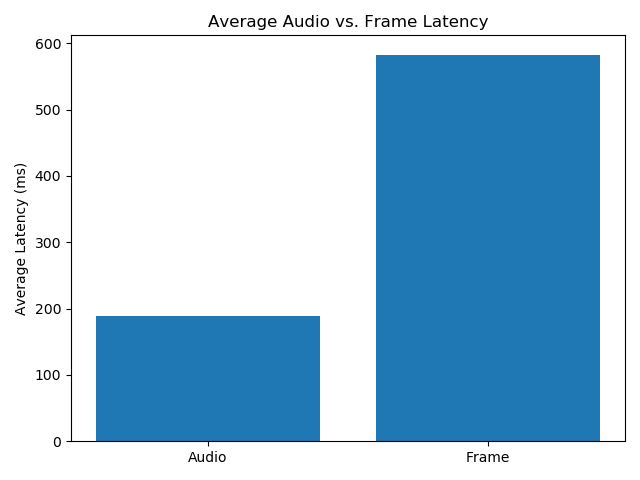
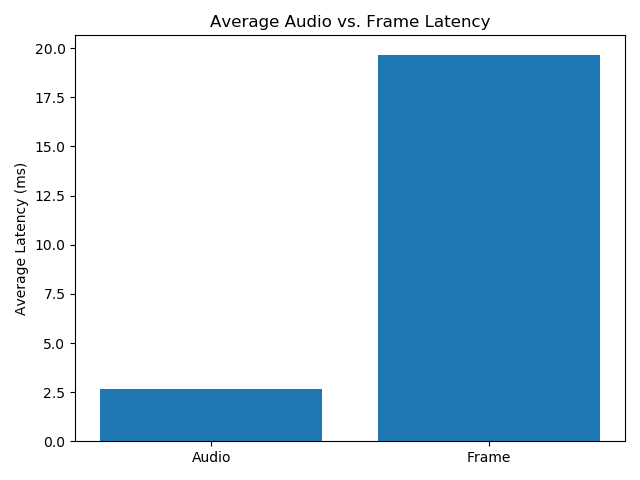
Add files via upload
modified the script to map the input to nearest auido and frame data

diff --git a/data/client/client-latency.py b/data/client/client-latency.py
@@ -4,10 +4,8 @@ import bisect
 import os
 import matplotlib.pyplot as plt
 
-# 1. Path to your CSV
+# 1. Load CSV
 csv_path = os.path.expanduser('~/data/client/latency_data.csv')
-
-# 2. Read and split timestamps
 input_times = []
 audio_times = []
 frame_times = []
@@ -24,35 +22,52 @@ with open(csv_path, newline='') as f:
         elif tp == 'frame' and direction == 'recv':
             frame_times.append(t)
 
-# 3. Sort (just in case)
+# 2. Sort
 input_times.sort()
 audio_times.sort()
 frame_times.sort()
 
-# 4. Helper to pair each recv with the nearest preceding send
-def nearest_preceding(send_list, recv_time):
-    idx = bisect.bisect_right(send_list, recv_time) - 1
-    return send_list[idx] if idx >= 0 else None
+# 3. For each input, find the next audio & frame via bisect
+audio_latencies = []
+frame_latencies = []
 
-# 5. Compute latencies (in same ms units)
-audio_latencies = [t - nearest_preceding(input_times, t) for t in audio_times]
-frame_latencies = [t - nearest_preceding(input_times, t) for t in frame_times]
+for t_in in input_times:
+    # find first audio > t_in
+    idx_a = bisect.bisect_right(audio_times, t_in)
+    if idx_a < len(audio_times):
+        audio_latencies.append(audio_times[idx_a] - t_in)
+    else:
+        audio_latencies.append(None)
 
-# 6. Plot latency vs. instance
+    # find first frame > t_in
+    idx_f = bisect.bisect_right(frame_times, t_in)
+    if idx_f < len(frame_times):
+        frame_latencies.append(frame_times[idx_f] - t_in)
+    else:
+        frame_latencies.append(None)
+
+# 4. Clean out any None (if you prefer)
+instances = list(range(len(input_times)))
+audio_vals = [lat for lat in audio_latencies if lat is not None]
+frame_vals = [lat for lat in frame_latencies if lat is not None]
+inst_audio = [i for i, lat in enumerate(audio_latencies) if lat is not None]
+inst_frame = [i for i, lat in enumerate(frame_latencies) if lat is not None]
+
+# 5. Plot per-input-instance latencies
 plt.figure()
-plt.plot(range(len(audio_latencies)), audio_latencies, label='Audio')
-plt.plot(range(len(frame_latencies)), frame_latencies, label='Frame')
-plt.xlabel('Instance Index')
+plt.plot(inst_audio, audio_vals, 'o-', label='Audio')
+plt.plot(inst_frame, frame_vals, 'o-', label='Frame')
+plt.xlabel('Input Instance Index')
 plt.ylabel('Latency (ms)')
-plt.title('Per-Instance Latencies')
+plt.title('Per-Input Latencies')
 plt.legend()
 plt.tight_layout()
 plt.savefig('latency_instances.png')
 plt.close()
 
-# 7. Plot average latencies
-avg_audio = sum(audio_latencies) / len(audio_latencies)
-avg_frame = sum(frame_latencies) / len(frame_latencies)
+# 6. Plot average
+avg_audio = sum(audio_vals) / len(audio_vals)
+avg_frame = sum(frame_vals) / len(frame_vals)
 
 plt.figure()
 plt.bar(['Audio', 'Frame'], [avg_audio, avg_frame])
@@ -62,7 +77,5 @@ plt.tight_layout()
 plt.savefig('average_latency.png')
 plt.close()
 
-print("Saved plots as:")
-print(" • latency_instances.png")
-print(" • average_latency.png")
+print("Saved latency_instances.png and average_latency.png")
 
